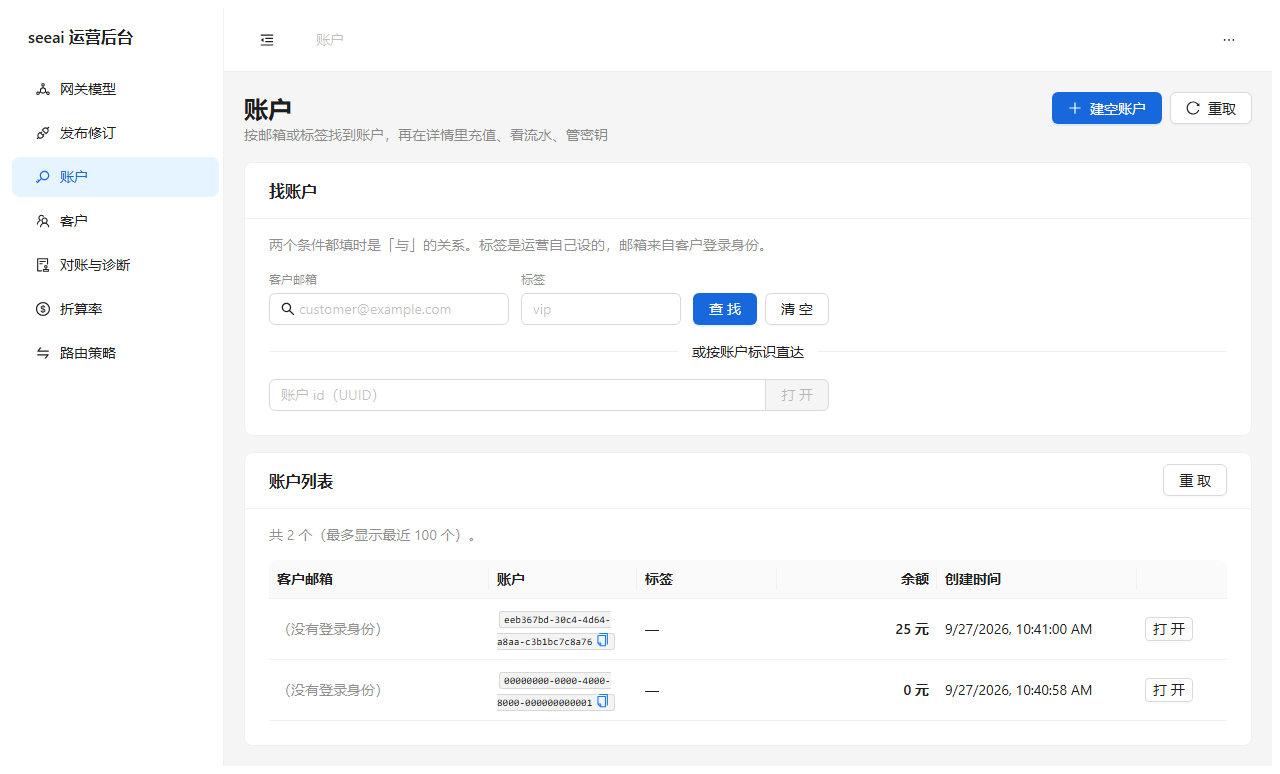
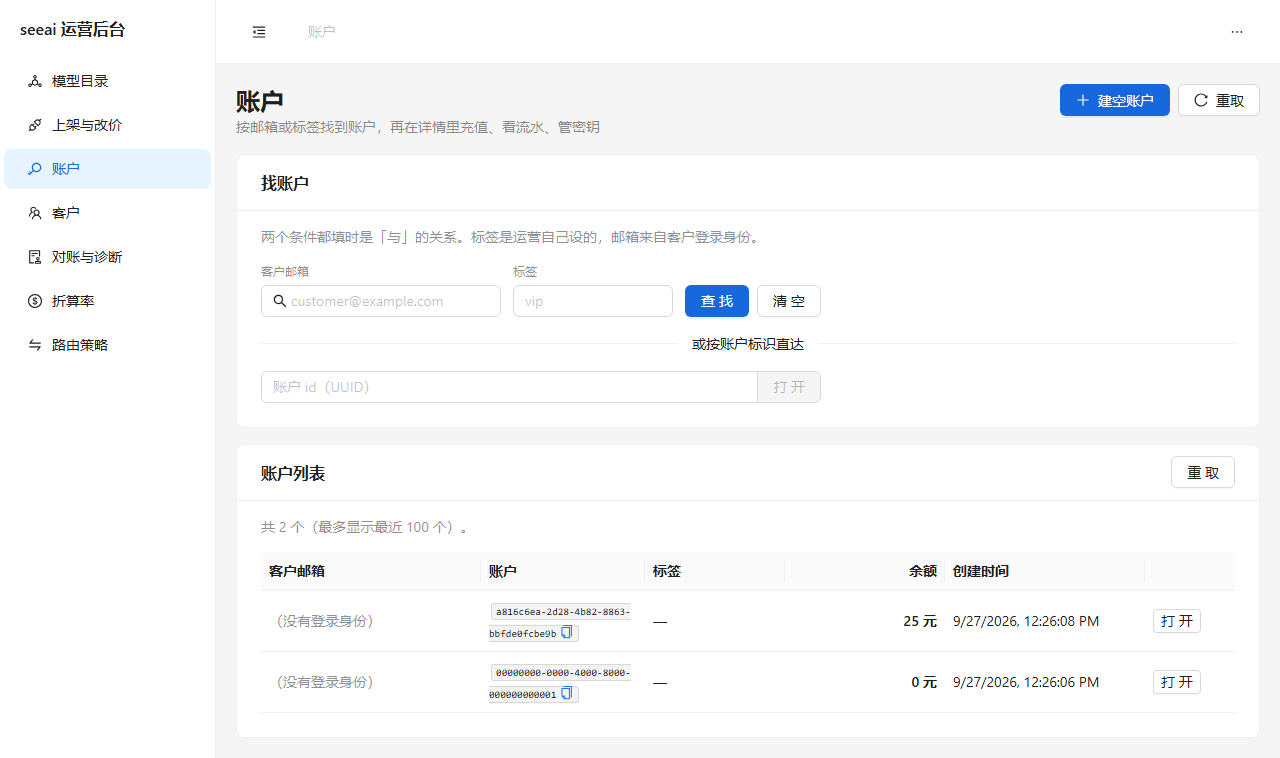
feat(admin): 导航改成运营的说法（模型目录 / 上架与改价），并说清两页的分工
用户反复问过一句："发布修订和网关模型的区别是什么？现在都不知道这个发布修订对管理运营来说是做什么
用的"。两个页面名都是平台内部概念：`Gateway Model` 与 `Runtime Revision`——`CONTEXT.md` 把后者定义为
"一次经过校验并发布的不可变运行时目录"，那是给平台内部看的说法，不是运营的活儿。

## 改了什么（只改标签与文案，不改合同）

| 位置 | 原文 | 现文 |
| --- | --- | --- |
| 导航 | 网关模型 | **模型目录** |
| 导航 | 发布修订 | **上架与改价** |
| 页面标题 | 网关模型 / 发布修订 | 模型目录 / 上架与改价 |

两页各加一段说明自己的职责，并互相指路：

- **模型目录**："在售的模型、各自的价目与候选渠道。要上架一个新模型或改价，去「上架与改价」——那边写的
  就是这一页显示的内容。"；
- **上架与改价**："这一页是写：让一个型号可售，或改它的价。写完之后「模型目录」显示的就是这里提交的
  东西。"。

空态、停用确认、发布成功后的指路文案一并跟着改名。

## 顺带修掉一个我引入的缺陷

上面这段说明文案里我写了 `**看**`、`**写**`、`**上架一个新模型**` 这类 markdown 强调——**它们会被当字面
星号渲染出来**（截图里能看到）。这一批里共四处，全部改成普通文字。这是同类错误的第二次（上一次在客户
控制台），已记住：JSX 文本里不用 markdown 强调。

## 验证

- `npx playwright test`：**18 passed / 1 skipped**（导航标签的用例跟着改名，全绿）；
- `npx tsc --noEmit`、`npm run build`（含产物隔离核对）通过；
- `npm run capture` 重新抓了 10 张截图，文件名与标签一致（`01-运营后台-模型目录.png`、
  `02-运营后台-上架与改价.png`）。

diff --git a/apps/web/src/console/pages/Models.tsx b/apps/web/src/console/pages/Models.tsx
@@ -17,7 +17,7 @@ import type { GatewayModel, GatewayModelCandidate } from '../../shared/types';
 import { useLoadable } from '../../shared/ui';
 import { ConsolePage, Panel, whenText, yuanText } from '../ui';
 
-/// 网关模型清单：运营最常看的一页。
+/// 模型目录：在售的模型与它们的价目，运营最常看的一页。
 ///
 /// 它回答"这个平台型号现在是什么状态"：生效修订、加价系数、候选顺序与权重、每条候选能不能走，
 /// 以及**这条候选承载得了哪些字段**——"目录里为什么没有它"要在这里看得见。
@@ -46,22 +46,32 @@ export function ModelsPage({ client }: { client: AdminClient }) {
 
   return (
     <ConsolePage
-      title="网关模型"
-      hint={list.length > 0 ? `${list.length} 个型号` : '还没有发布过任何网关模型'}
+      title="模型目录"
+      hint={
+        list.length > 0
+          ? `${list.length} 个型号在售`
+          : '还没有上架过任何模型——这一页看在售的模型与价目，要上架或改价去「上架与改价」'
+      }
       error={failure ?? models.error}
       loading={models.loading}
       onReload={models.reload}
     >
+      <Alert
+        type="info"
+        showIcon
+        message="这一页看什么"
+        description="在售的模型、各自的价目与候选渠道。要上架一个新模型或改价，去「上架与改价」——那边写的就是这一页显示的内容。"
+      />
       {list.length === 0 && !models.loading ? (
-        <Panel title="还没有发布过任何网关模型">
+        <Panel title="还没有上架过任何模型">
           <Alert
             type="info"
             showIcon
             message="空库时这里什么都没有"
             description={
               <>
-                去「发布修订」贴一份发布素材（<code>config/bootstrap/*.json</code>）。发布之后这一页会列出
-                每个型号的生效修订、加价系数与候选。
+                去「上架与改价」贴一份发布素材（<code>config/bootstrap/*.json</code>），或直接在表单里填。
+                上架之后这一页会列出每个型号的生效修订、加价系数与候选。
               </>
             }
           />
@@ -92,7 +102,7 @@ export function ModelsPage({ client }: { client: AdminClient }) {
                   候选（{model.candidates.length}）
                 </Button>
                 <Popconfirm
-                  title={model.enabled ? '停用这个网关模型？' : '启用这个网关模型？'}
+                  title={model.enabled ? '停用这个模型？' : '启用这个模型？'}
                   description={
                     model.enabled
                       ? '停用后对客目录里不再出现它；已受理的 Job 不受影响。'

diff --git a/apps/web/src/console/pages/Publish.tsx b/apps/web/src/console/pages/Publish.tsx
@@ -21,7 +21,7 @@ import type { AdminClient } from '../client';
 import { useLoadable } from '../../shared/ui';
 import { ConsolePage, Panel } from '../ui';
 
-/// 发布修订：运营"加一个网关模型"或"给已有型号发新修订"的地方。
+/// 上架与改价：运营让一个型号可售、或改它的价的地方（写的就是发布修订这件事）。
 ///
 /// **表单收集商业条款，技术字段贴入**。发布命令里绝大多数内容是运营不做决定的样板：
 /// `capability_schema` 与 `carrier_schema` 是厂商给的 JSON Schema，`parameter_mapping` 是渠道包装声明；
@@ -289,8 +289,8 @@ export function PublishPage({ client }: { client: AdminClient }) {
 
   return (
     <ConsolePage
-      title="发布修订"
-      hint="发布即原子替换该型号的全部候选"
+      title="上架与改价"
+      hint="这一页是写：让一个型号可售，或改它的价。写完之后「模型目录」显示的就是这里提交的东西。"
       error={error}
       extra={
         published.length > 0 ? (
@@ -316,7 +316,7 @@ export function PublishPage({ client }: { client: AdminClient }) {
                 生效修订：<Typography.Text code>{done.runtime_revision_id}</Typography.Text>
               </Typography.Text>
               <Typography.Text type="secondary">
-                去「网关模型」核对候选与定价是否就是你要的那一份。
+                去「模型目录」核对候选与定价是否就是你要的那一份。
               </Typography.Text>
             </Flex>
           }
@@ -795,8 +795,8 @@ export function PublishPage({ client }: { client: AdminClient }) {
 
       <Panel title="模型的合同（capability_schema）">
         <Typography.Paragraph type="secondary" style={{ marginTop: 0 }}>
-          厂商给的 JSON Schema：调用方能用哪些字段、各自什么形状。**模型级一份**，所有候选共用。
-          贴进来的原文会被原样保存与冻结。
+          厂商给的 JSON Schema：调用方能用哪些字段、各自什么形状。模型级一份，所有候选共用。贴进来的
+          原文会被原样保存与冻结。
         </Typography.Paragraph>
         <Input.TextArea
           rows={8}

diff --git a/apps/web/e2e/admin-publishes-a-model.spec.ts b/apps/web/e2e/admin-publishes-a-model.spec.ts
@@ -33,7 +33,7 @@ test('用表单发布一个新型号，不写整份发布命令', async ({ page,
   await page.getByTestId('admin-email').fill(settings.adminEmail);
   await page.getByTestId('admin-password').fill(settings.adminPassword);
   await page.getByTestId('admin-sign-in').click();
-  await page.locator('.ant-layout-sider').getByRole('menuitem', { name: '网关模型' }).waitFor();
+  await page.locator('.ant-layout-sider').getByRole('menuitem', { name: '模型目录' }).waitFor();
 
   // 发布要用的折算率先录好：没有它，按 token 计量的候选会在校验期被拒。
   const rate = await request.put(`${adminApiUrl}/api/v1/fx-rates`, {
@@ -42,7 +42,7 @@ test('用表单发布一个新型号，不写整份发布命令', async ({ page,
   });
   expect(rate.status()).toBe(204);
 
-  await page.locator('.ant-layout-sider').getByRole('menuitem', { name: '发布修订' }).click();
+  await page.locator('.ant-layout-sider').getByRole('menuitem', { name: '上架与改价' }).click();
 
   const model = `e2e-form-${Date.now()}`;
   await page.getByTestId('publish-vendor').fill('OpenAI');
@@ -108,6 +108,6 @@ test('用表单发布一个新型号，不写整份发布命令', async ({ page,
   await expect(page.getByText('生效修订：')).toBeVisible();
 
   // 去模型列表核对它真的在（发布不是只弹了个提示）。
-  await page.locator('.ant-layout-sider').getByRole('menuitem', { name: '网关模型' }).click();
+  await page.locator('.ant-layout-sider').getByRole('menuitem', { name: '模型目录' }).click();
   await expect(page.getByText(model).first()).toBeVisible();
 });

diff --git a/apps/web/e2e/admin-session.spec.ts b/apps/web/e2e/admin-session.spec.ts
@@ -11,7 +11,7 @@ const ADMIN_PASSWORD = settings.adminPassword;
 const CONSOLE = consoleUrl;
 const PORTAL = portalUrl;
 
-const NAV_LABELS = ['网关模型', '发布修订', '账户', '客户', '对账与诊断', '折算率', '路由策略'];
+const NAV_LABELS = ['模型目录', '上架与改价', '账户', '客户', '对账与诊断', '折算率', '路由策略'];
 
 /// 侧栏导航项。Ant Design 的 `Menu` 把每项渲染成 `role=menuitem`，不是 button——换 UI 库时
 /// 选择器要跟着实现走，但**断言的性质不变**（那六项在 / 不在）。
@@ -85,7 +85,7 @@ test('口令不对时留在登录页并说明原因', async ({ page }) => {
   // 提示现在是 Ant Design 的 `Alert`；它的 role 有嵌套（同名元素两处），登录页上另有一条
   // "API 探活"的提示，所以先按文案筛出错误那一条，再取第一个。
   await expect(page.getByRole('alert').filter({ hasText: '邮箱或口令' }).first()).toBeVisible();
-  await expect(navItem(page, '网关模型')).toHaveCount(0);
+  await expect(navItem(page, '模型目录')).toHaveCount(0);
 });
 
 test('客户入口在任何主机上都能按文件名直达，且拿到的是客户那一份', async ({ page }) => {

diff --git a/apps/web/e2e/capture-screenshots.capture.ts b/apps/web/e2e/capture-screenshots.capture.ts
@@ -9,8 +9,8 @@ import { adminApiUrl, consoleUrl, portalUrl, settings } from './settings';
 /// 它与 e2e 分开配置（`playwright.capture.config.ts`）：`npm run e2e` 只跑断言，`npm run capture`
 /// 只抓图。合成一份的话抓图会混进常规运行、白花时间还把用例总数搞乱。
 const CONSOLE_PAGES = [
-  '网关模型',
-  '发布修订',
+  '模型目录',
+  '上架与改价',
   '账户',
   '客户',
   '对账与诊断',
@@ -34,7 +34,7 @@ test('运营后台六个页面各抓一张截图', async ({ page, request }) => 
   await page.getByTestId('admin-email').fill(settings.adminEmail);
   await page.getByTestId('admin-password').fill(settings.adminPassword);
   await page.getByTestId('admin-sign-in').click();
-  await page.locator('.ant-layout-sider').getByRole('menuitem', { name: '网关模型' }).waitFor();
+  await page.locator('.ant-layout-sider').getByRole('menuitem', { name: '模型目录' }).waitFor();
 
   for (const [index, label] of CONSOLE_PAGES.entries()) {
     await page.locator('.ant-layout-sider').getByRole('menuitem', { name: label }).click();

diff --git a/apps/web/src/console/App.tsx b/apps/web/src/console/App.tsx
@@ -26,8 +26,10 @@ import { RatesPage } from './pages/Rates';
 import { RoutingPage } from './pages/Routing';
 
 const NAV: { route: Route; label: string; icon: React.ReactNode }[] = [
-  { route: 'models', label: '网关模型', icon: <DeploymentUnitOutlined /> },
-  { route: 'publish', label: '发布修订', icon: <ApiOutlined /> },
+  // 「模型目录」是运营的说法（列在售的模型与它们的价目）；`Gateway Model` 是平台内部名。
+  { route: 'models', label: '模型目录', icon: <DeploymentUnitOutlined /> },
+  // 「上架与改价」是这一页对运营的用途：让一个型号可售、改它的价。它写的就是发布修订这件事。
+  { route: 'publish', label: '上架与改价', icon: <ApiOutlined /> },
   { route: 'accounts', label: '账户', icon: <KeyOutlined /> },
   { route: 'customers', label: '客户', icon: <TeamOutlined /> },
   { route: 'diagnostics', label: '对账与诊断', icon: <AuditOutlined /> },

diff --git a/apps/web/e2e/ui-uses-antd.spec.ts b/apps/web/e2e/ui-uses-antd.spec.ts
@@ -33,8 +33,8 @@ test('运营后台的外壳与六个页面都渲染 Ant Design 组件', async ({
 
   const sidebar = page.locator('.ant-layout-sider');
   const pages: { label: string; markers: string[] }[] = [
-    { label: '网关模型', markers: ['.ant-card', '.ant-alert'] },
-    { label: '发布修订', markers: ['.ant-card', '.ant-input', '.ant-btn'] },
+    { label: '模型目录', markers: ['.ant-card', '.ant-alert'] },
+    { label: '上架与改价', markers: ['.ant-card', '.ant-input', '.ant-btn'] },
     { label: '账户', markers: ['.ant-card', '.ant-table', '.ant-form'] },
     { label: '客户', markers: ['.ant-card', '.ant-table', '.ant-form'] },
     { label: '对账与诊断', markers: ['.ant-card', '.ant-tabs'] },

diff --git a/apps/web/e2e/admin-reprice-mode.spec.ts b/apps/web/e2e/admin-reprice-mode.spec.ts
@@ -17,7 +17,7 @@ test.skip('改价模式下不出现渠道地址与凭证变量名', async ({ pag
   await page.getByTestId('admin-email').fill(settings.adminEmail);
   await page.getByTestId('admin-password').fill(settings.adminPassword);
   await page.getByTestId('admin-sign-in').click();
-  await page.locator('.ant-layout-sider').getByRole('menuitem', { name: '发布修订' }).click();
+  await page.locator('.ant-layout-sider').getByRole('menuitem', { name: '上架与改价' }).click();
 
   // 新增型号模式：技术字段都在（这一步本来就是技术入口）。
   await expect(page.getByTestId('publish-base-url')).toBeVisible();

diff --git a/apps/web/e2e/admin-reads-fixture-data.spec.ts b/apps/web/e2e/admin-reads-fixture-data.spec.ts
@@ -16,7 +16,7 @@ test.describe('管理页面读的是库里的数据', () => {
     await page.getByTestId('admin-password').fill(settings.adminPassword);
     await page.getByTestId('admin-sign-in').click();
     // 侧栏出现即已进后台；限定在侧栏里，页头另有一份"当前在哪一页"的指示。
-    await expect(sidebar(page, '网关模型')).toBeVisible();
+    await expect(sidebar(page, '模型目录')).toBeVisible();
   }
 
   /// 切到某一页。导航项不是 button，是按角色的 menuitem；限定在侧栏内避免与页头重复。
